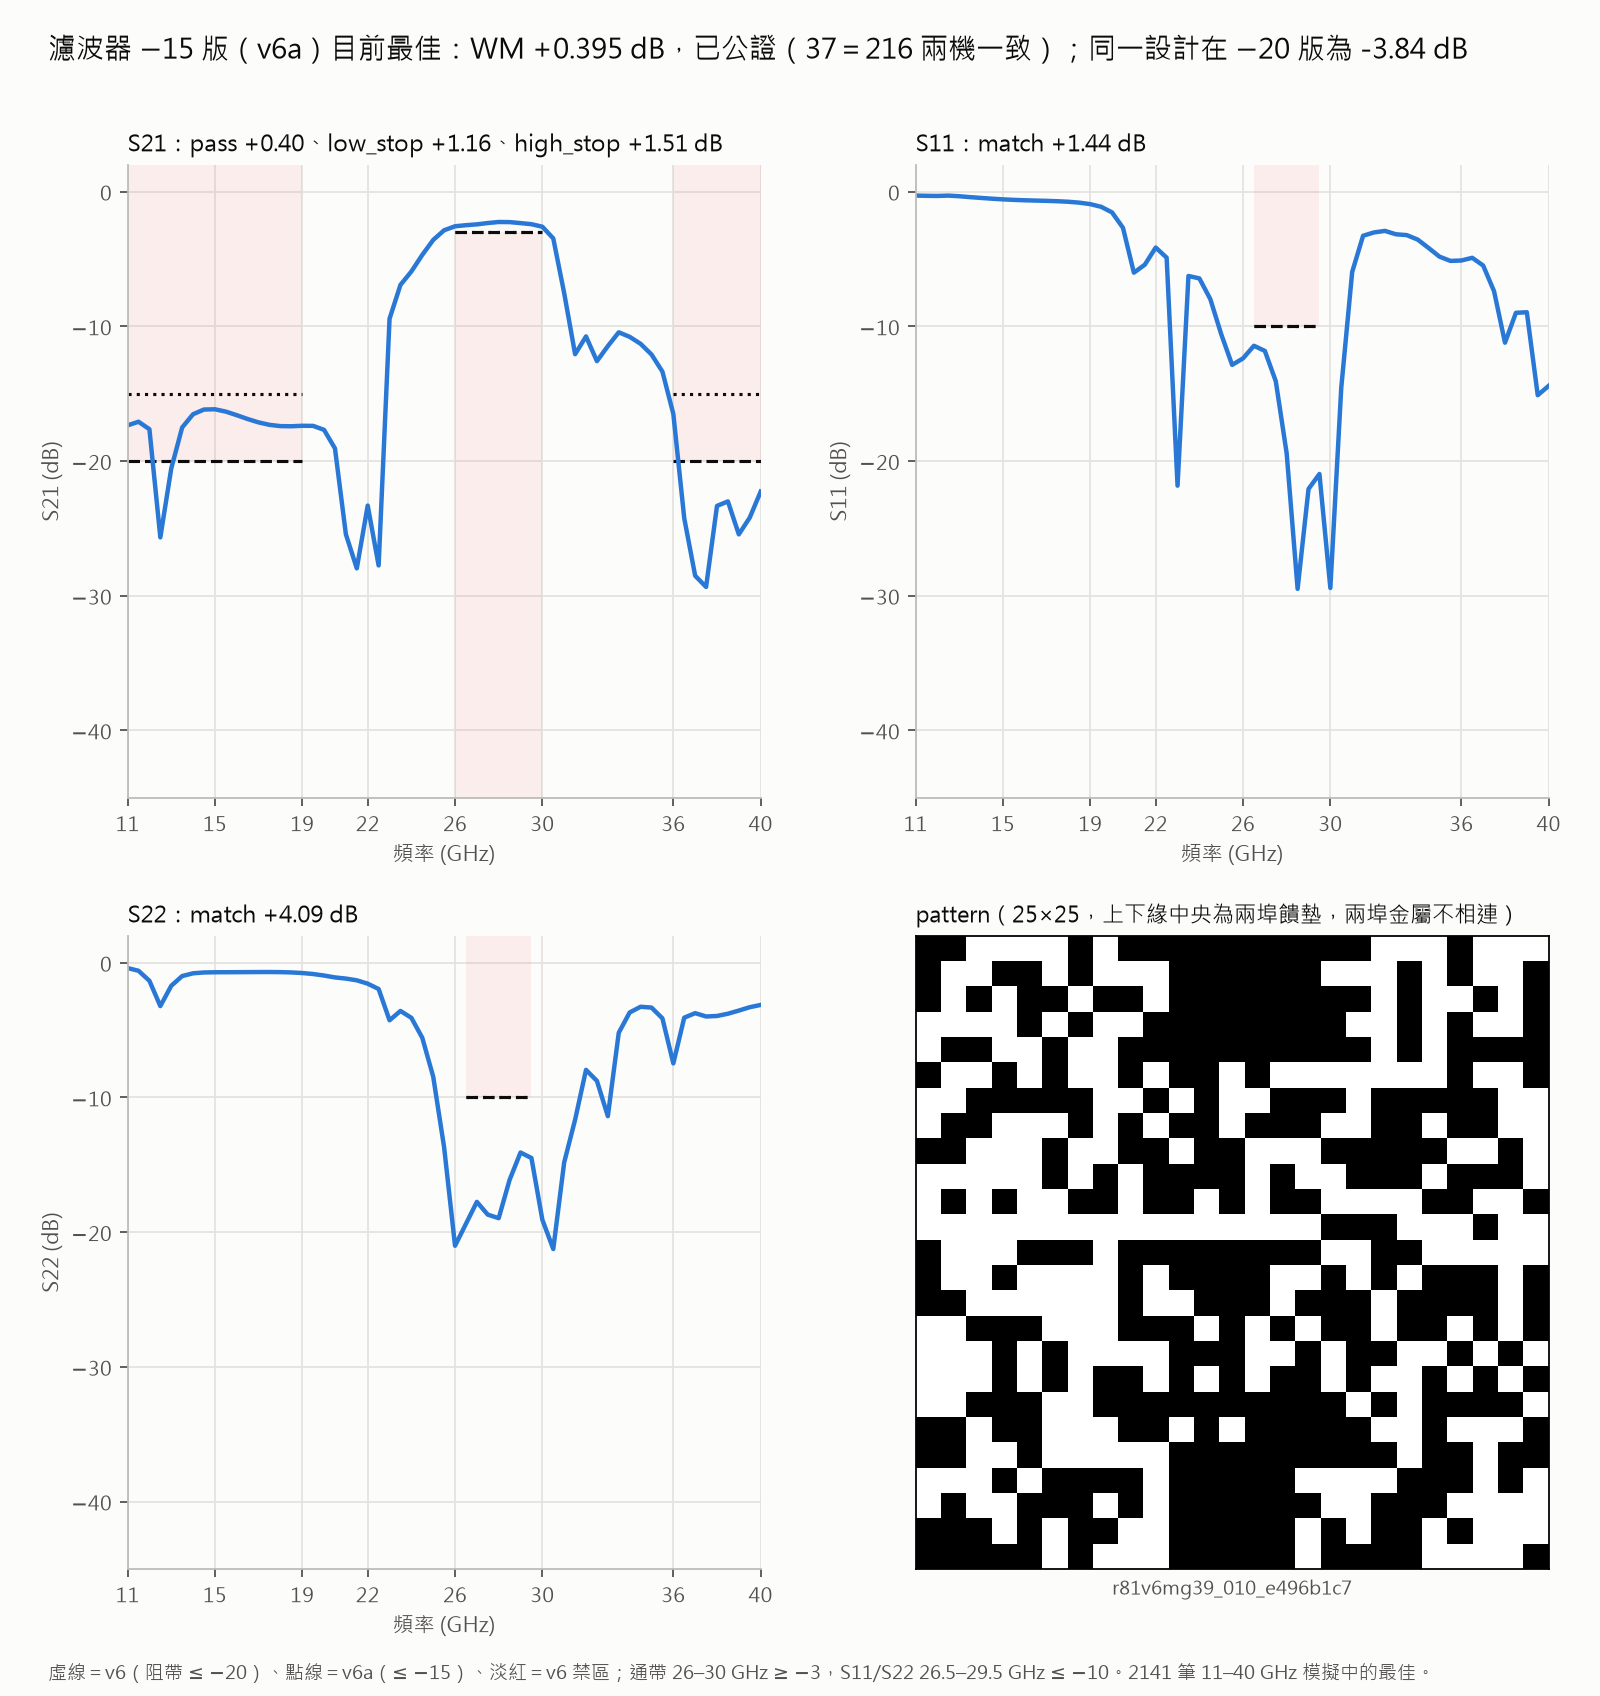
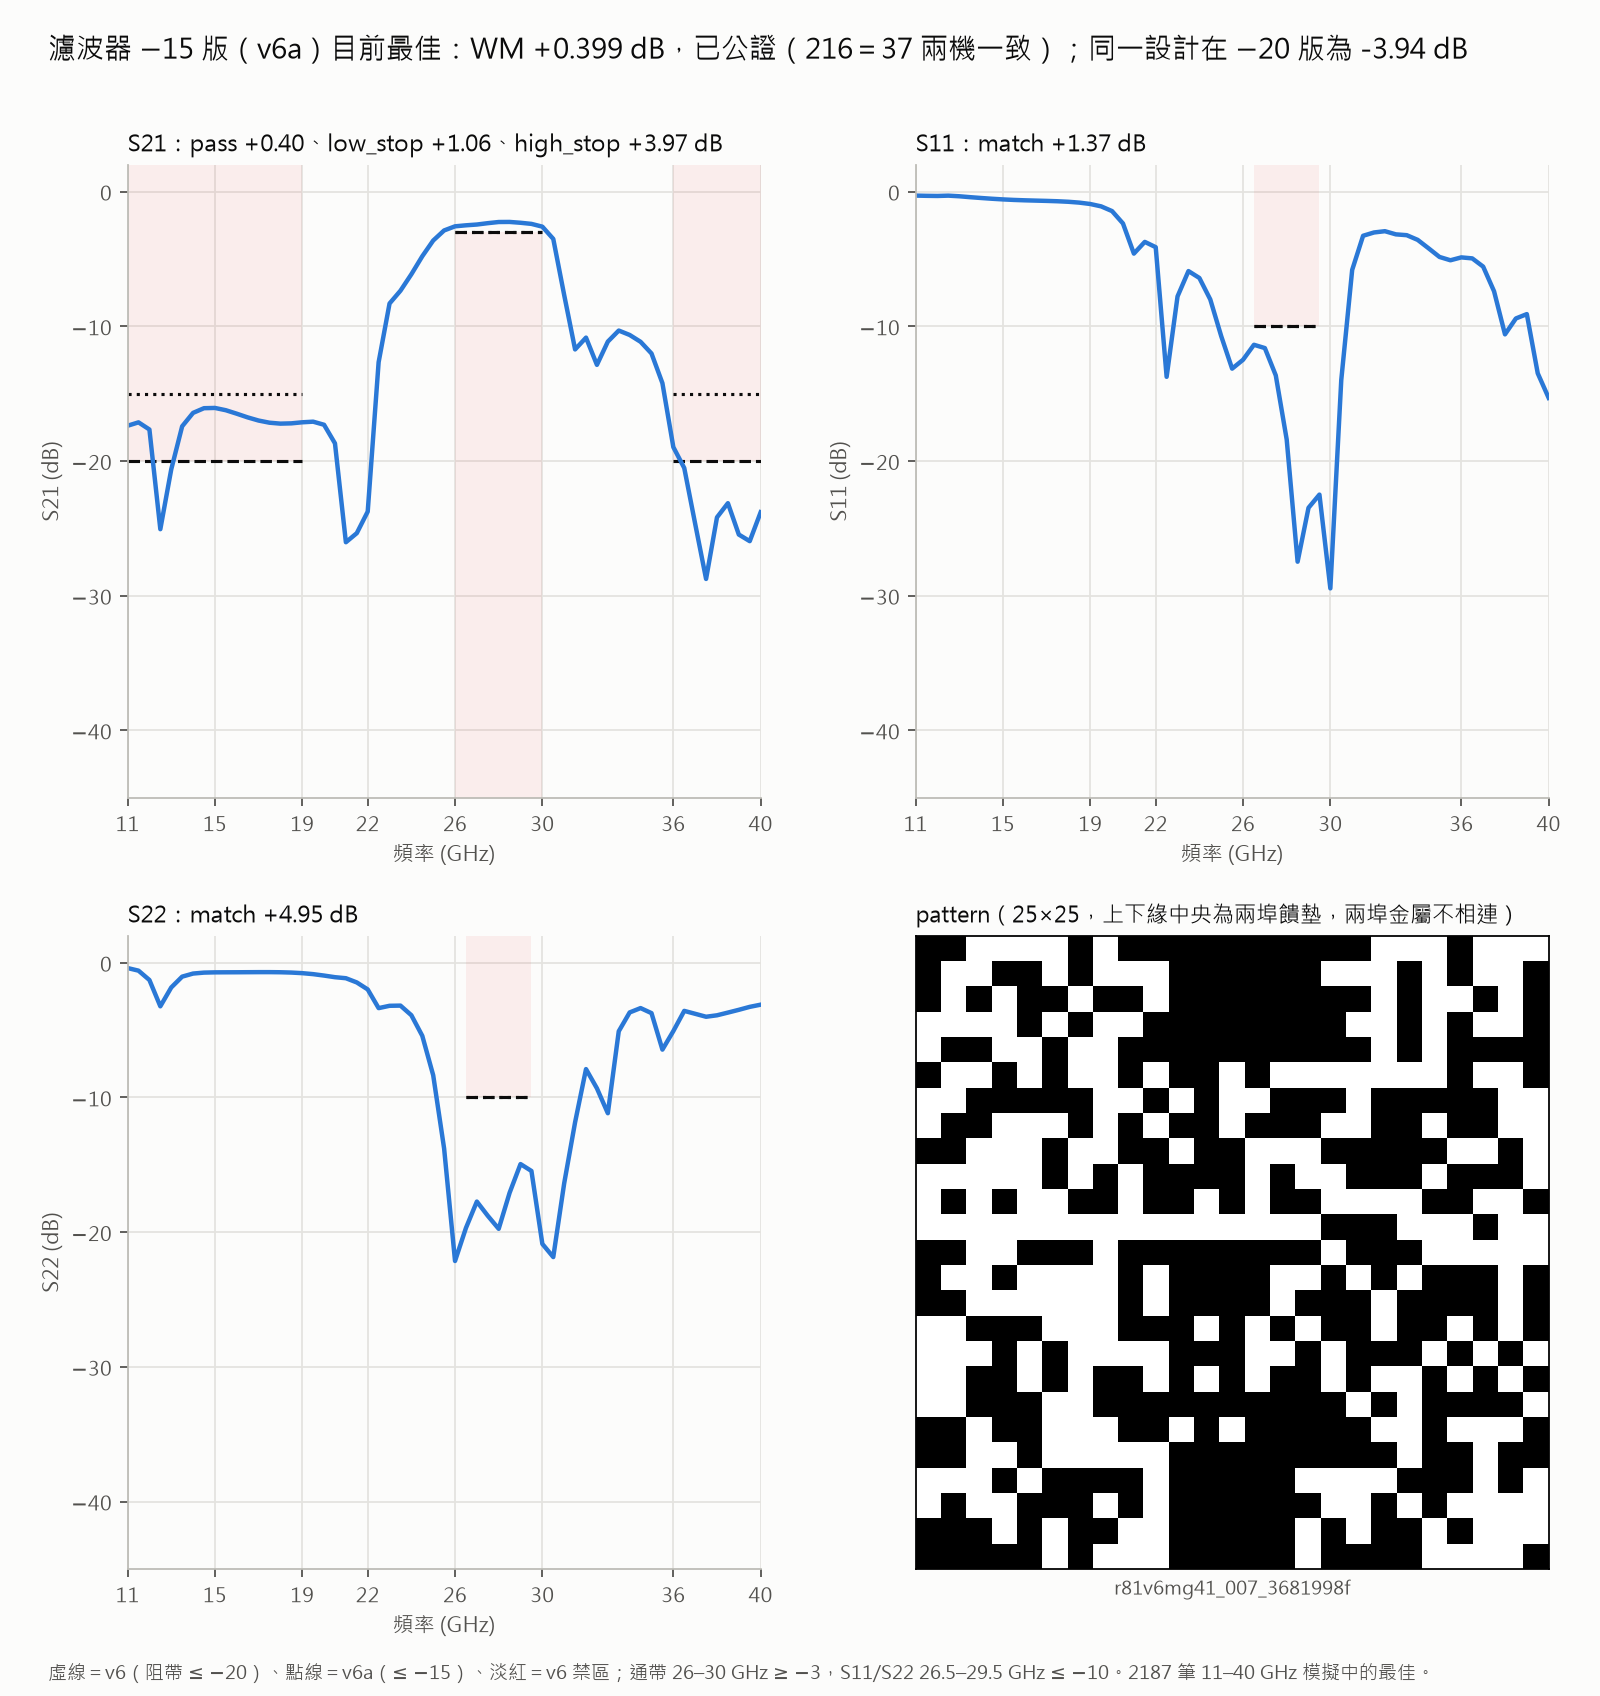
R101：公證 n35——mg41_007 +0.399（216=37）公證最佳；n36 前段三設計 218 三機一致

diff --git a/script/figs/r81_v6.py b/script/figs/r81_v6.py
@@ -36,10 +36,10 @@ NOTARIZED = {                     # v6a 跨機公證通過（round-89／90）；
     "r81v6mg26_006_091f57e2": "216＝218", "r81v6mg28_012_5734eceb": "216＝218＝37",
     "r81v6mg30_005_375c13b7": "216＝37", "r81v6mg31_021_dddcbc7c": "218＝216",
     "r81v6mg32_011_733aebe5": "37＝216", "r81v6mg32_006_677c9758": "216＝37＝218",
-    "r81v6mg34_000_b4bb9425": "37＝216", "r81v6mg33_023_92bc2c9b": "218＝37",
+    "r81v6mg34_000_b4bb9425": "37＝216＝218", "r81v6mg33_023_92bc2c9b": "218＝37",
     "r81v6mg34_001_cbf6d2ad": "216＝218", "r81v6mg36_003_72976679": "216＝37",
-    "r81v6mg36_001_2f110a48": "218＝216", "r81v6mg37_000_92ff9a8b": "37＝216",
-    "r81v6mg39_010_e496b1c7": "37＝216"}
+    "r81v6mg36_001_2f110a48": "218＝216", "r81v6mg37_000_92ff9a8b": "37＝216＝218",
+    "r81v6mg39_010_e496b1c7": "37＝216＝218", "r81v6mg41_007_3681998f": "216＝37"}
 
 
 def rows_v6(cfg, grid):

diff --git a/configs/ONGOING.md b/configs/ONGOING.md
@@ -4,7 +4,7 @@
 > 2026-10-12 前的完整流水帳（R80 收尾、Codex 的 R81 release 機制、diffsim、資料工廠、🔜 候選、✅ 指標）原樣封存在
 > [docs/log/archive/ongoing-2026-10-12.md](../docs/log/archive/ongoing-2026-10-12.md)。
 
-最後更新：2026-10-23 10:37
+最後更新：2026-10-23 10:57
 
 ## 🔵 R81 寬頻濾波器 spec v2（running）→ [round-81](../docs/log/round-81-wide-filter.md)
 
@@ -43,6 +43,7 @@
 
 ## 🔵 R101 交付候選三機公證＋續移植（running）→ [round-101](../docs/log/round-101-delivery-check.md)
 
+- **10-23 10:57 公證最佳 `mg41_007` +0.399**（216＝37）；mg39_010／mg37_000／mg34_000 三機一致。
 - **公證最佳 `mg39_010` +0.395**（37＝216）；mg41_007 +0.399 單次公證中。R100 已結（回報：v6a 近平台）。
 - 三機公證 n36（218）／n37（37）；mg42（移植 19 筆）。**待 Ricky：交付／回頭 −20 版／續爬**。
 

diff --git a/docs/log/round-101-delivery-check.md b/docs/log/round-101-delivery-check.md
@@ -25,6 +25,18 @@
 
 ## 4. 分析 (Analyze)
 
+### 2026-10-23 10:57：公證 n35、n36
+
+| 設計 | WM | 機台 | 曲線最大差 |
+|---|---|---|---|
+| **mg41_007** | **+0.3988** | 216＝37 | 0 |
+| mg39_010 | +0.3951 | 37＝216＝**218** | 0 |
+| mg37_000 | +0.3908 | 37＝216＝**218** | 2×10⁻⁶ dB |
+| mg34_000 | +0.3631 | 37＝216＝**218** | 2×10⁻⁶ dB |
+
+- **mg41_007 +0.399 → 公證最佳**（通帶 +0.399、低阻 +1.06、高阻 +3.97、S11 +1.37、S22 +4.95）——高阻與 S22 餘裕明顯寬於 mg39_010。
+- 218 對前段三個設計全部與 216／37 一致 → 交付判準①通過（mg36_001 的 n37 待收）。218 的離群仍只出現在早期 mg13／mg20 幾何。
+
 ## 5. 結論 (Conclude)
 
 ## 6. 後續決策 (Next)
